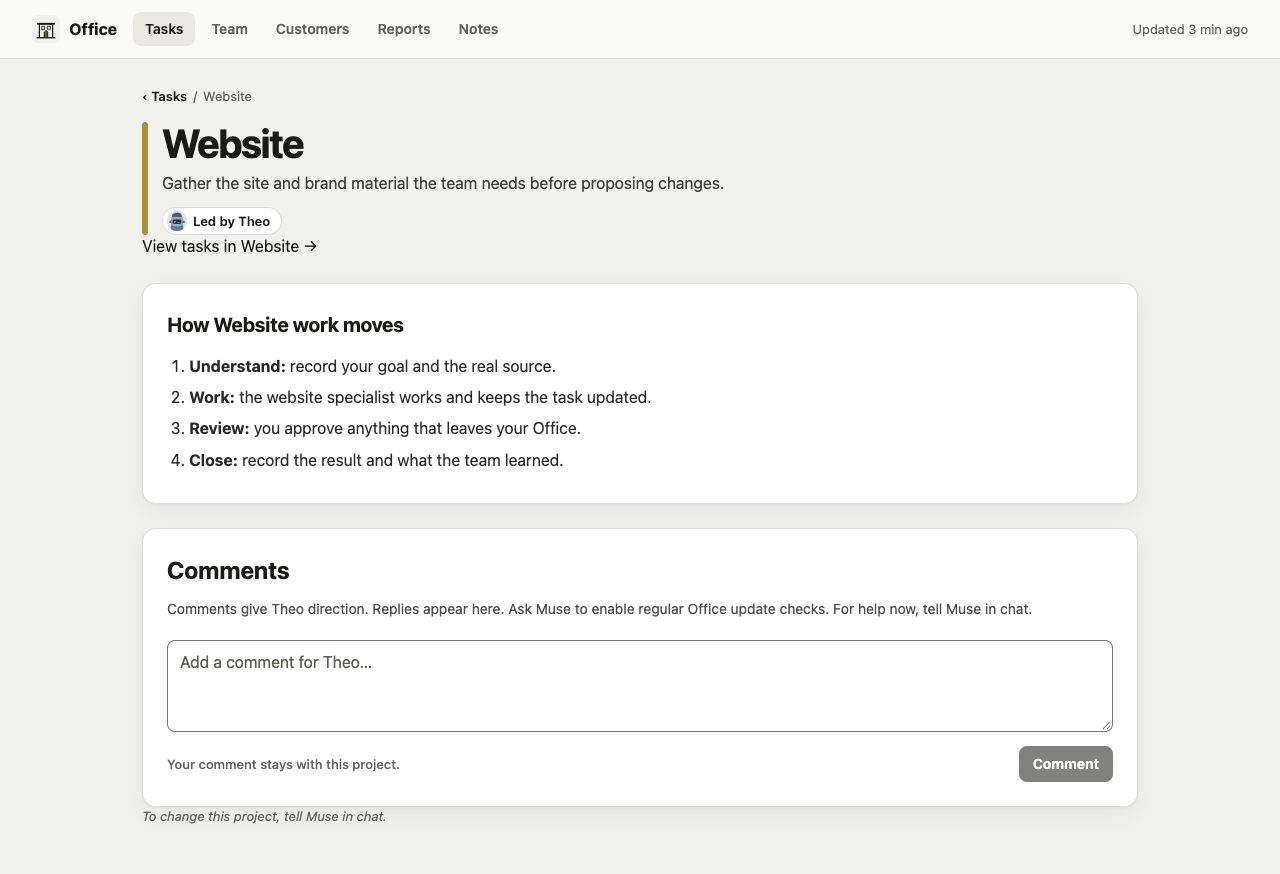
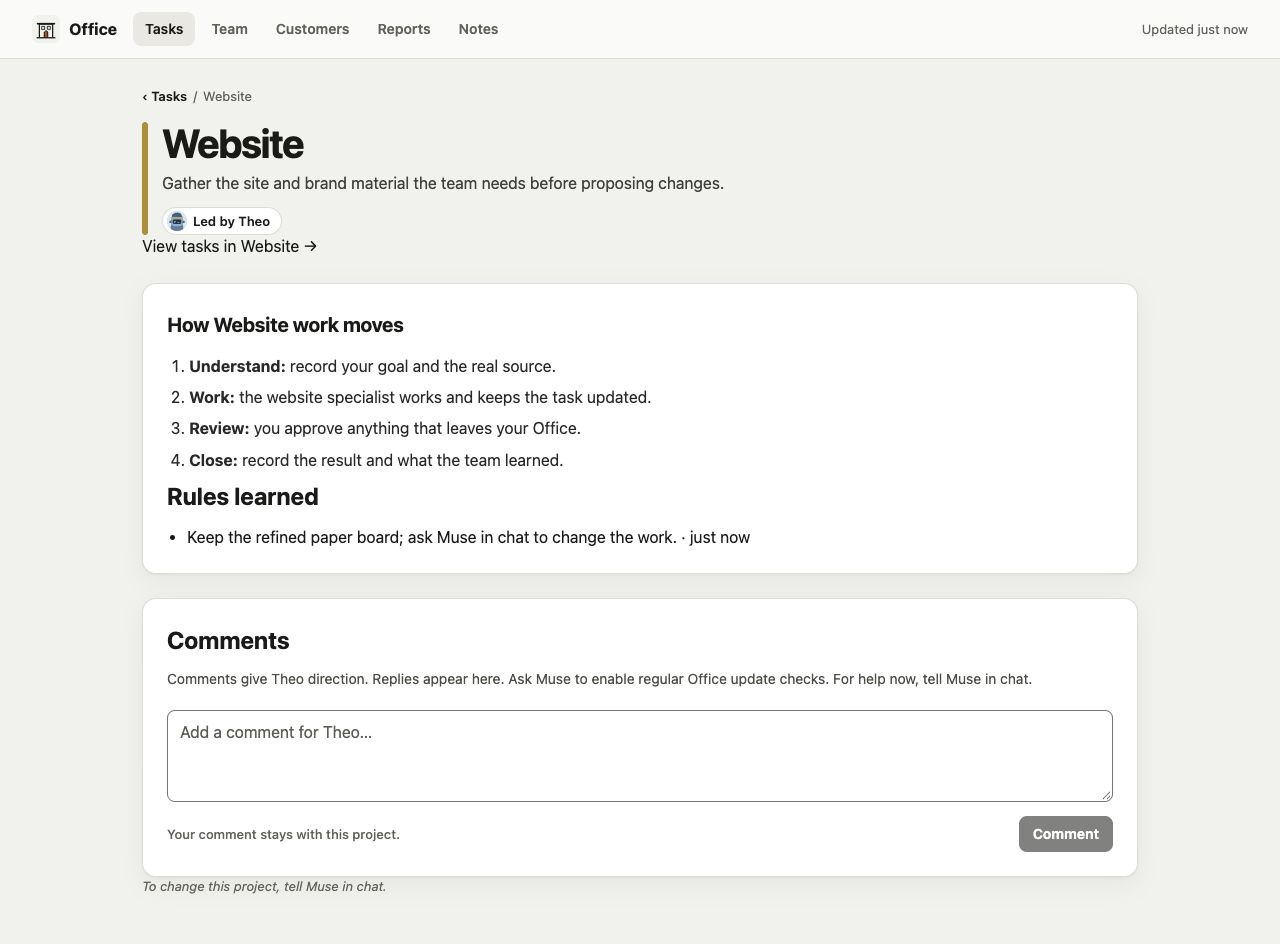
fix(projects): distinguish learned rules from process text
A named section with dates prevents learned rules from inheriting the meaning of the preceding Markdown heading on existing Offices.

diff --git a/src/app/projects/[slug]/page.tsx b/src/app/projects/[slug]/page.tsx
@@ -45,7 +45,7 @@ export default async function ProjectPage({ params }: { params: Promise<{ slug: 
     {(project.process_markdown || rules.length > 0) && <section className="card pp-context">
       {!project.process_markdown && <h2>How we work here</h2>}
       <div className="md" dangerouslySetInnerHTML={{ __html: renderMarkdown(project.process_markdown ?? "") }} />
-      {rules.length > 0 && <ul>{rules.map((rule) => <li key={rule.id}>{rule.text}</li>)}</ul>}
+      {rules.length > 0 && <><h2>Rules learned</h2><ul>{rules.map((rule) => <li key={rule.id}>{rule.text} <time dateTime={rule.learned_at}>· {ago(rule.learned_at)}</time></li>)}</ul></>}
     </section>}
     <section className="card pp-comments" aria-labelledby="project-comments">
       <h2 id="project-comments">Comments</h2>
